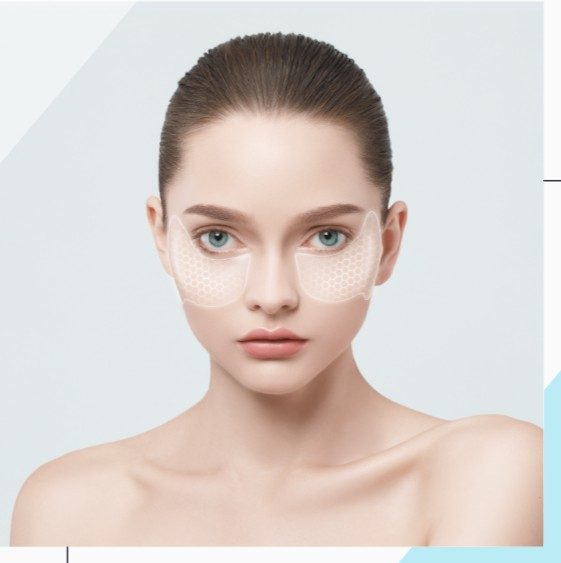
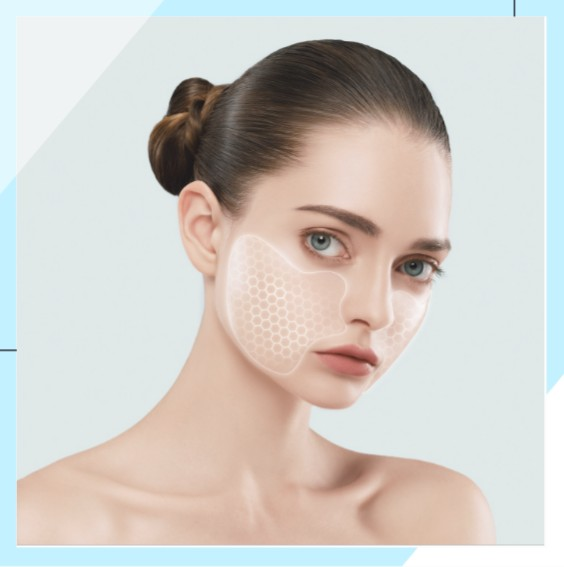
фавиконы, обложка и каталог

diff --git a/silea/index-2.html b/silea/index-2.html
@@ -4,9 +4,20 @@
     <meta charset="UTF-8">
     <meta name="viewport" content="width=device-width, initial-scale=1.0">
     <meta http-equiv="X-UA-Compatible" content="ie=edge">
-        
-    <link rel="shortcut icon" href="assets/images/favicon.ico" type="image/x-icon">
-    <link rel="icon" href="assets/images/favicon.ico" type="image/x-icon">
+
+    <meta property="og:title" content="Secret STRIPS" />
+    <meta property="og:description" content="удаления морщин без хирургического вмешательства и инъекций" />
+    <!-- <meta property="og:type" content="book" />
+    <meta property="og:url" content="http://www.labirint.ru/books/453612/" /> -->
+    <meta property="og:image" content="./assets/images/cover.jpg" />
+
+    <link rel="apple-touch-icon" sizes="180x180" href="./apple-touch-icon.png">
+    <link rel="icon" type="image/png" sizes="32x32" href="./favicon-32x32.png">
+    <link rel="icon" type="image/png" sizes="16x16" href="./favicon-16x16.png">
+    <link rel="manifest" href="./site.webmanifest">
+    <link rel="mask-icon" href="./safari-pinned-tab.svg" color="#5bbad5">
+    <meta name="msapplication-TileColor" content="#eeeeee">
+    <meta name="theme-color" content="#ffffff">
 
     <title>Secret STRIPS - удаления морщин без хирургического вмешательства и инъекций</title>
 
@@ -114,7 +125,7 @@
                         <div class="col-xl-7">
                             <div class="hero-sub">
                                 <div class="hero-left">
-                                    <h4>Эксклюзивный</h4>
+                                    <h4>Эксклюзив</h4>
                                     <h1>Для создания V-Образной формы лица</h1>
                                     <p>Работает одновременно на нижней части овала лица и носогубной складке.</p>
                                     <a href="index-2.html" class="bttn-mid btn-fill">Купить сейчас</a>
@@ -135,9 +146,9 @@
                         <div class="col-xl-7">
                             <div class="hero-sub">
                                 <div class="hero-left">
-                                    <h4>Exclusive one</h4>
-                                    <h1>One of the powerful watch ever</h1>
-                                    <p>Nunc enim neque, tincidunt non viverra ac, consectetur in erat. Quisque egestas pharetra dictum. Etiam sodales lacinia diam, nec iaculis neque pretium ac. Duis auctor ac</p>
+                                    <h4>Новинка</h4>
+                                    <h1>Форма для лобной части</h1>
+                                    <p>Разглаживает горизонтальные морщины лба и предотвращает их появление.</p>
                                     <a href="index-2.html" class="bttn-mid btn-fill">Купить сейчас</a>
                                 </div>
                             </div>
@@ -156,9 +167,9 @@
                         <div class="col-xl-7">
                             <div class="hero-sub">
                                 <div class="hero-left">
-                                    <h4>Exclusive one</h4>
-                                    <h1>One of the powerful watch ever</h1>
-                                    <p>Nunc enim neque, tincidunt non viverra ac, consectetur in erat. Quisque egestas pharetra dictum. Etiam sodales lacinia diam, nec iaculis neque pretium ac. Duis auctor ac</p>
+                                    <h4>Топ</h4>
+                                    <h1>Форма для глаз</h1>
+                                    <p>Избавляет от морщин вокруг глаз, уменьшает отеки и осветляет тёмные круги под глазами.</p>
                                     <a href="index-2.html" class="bttn-mid btn-fill">Купить сейчас</a>
                                 </div>
                             </div>
@@ -166,6 +177,27 @@
                         <div class="col-xl-5">
                             <div class="hero-right">
                                 <img src="assets/images/products/4.jpeg" alt="">
+                            </div>
+                        </div>
+                    </div>
+                </div>
+            </div>
+            <div class="single-hero">
+                <div class="container">
+                    <div class="row">
+                        <div class="col-xl-7">
+                            <div class="hero-sub">
+                                <div class="hero-left">
+                                    <h4>Топ</h4>
+                                    <h1>Форма для межбровных морщин</h1>
+                                    <p>Избавляет от горизонтальных и вертикальных морщин межбровья, предотвращает их появление.</p>
+                                    <a href="index-2.html" class="bttn-mid btn-fill">Купить сейчас</a>
+                                </div>
+                            </div>
+                        </div>
+                        <div class="col-xl-5">
+                            <div class="hero-right">
+                                <img src="assets/images/products/5.jpeg" alt="">
                             </div>
                         </div>
                     </div>
@@ -183,20 +215,20 @@
                 </div>
                 <div class="col-xl-6 col-lg-6 col-md-6">
                     <div class="section-title">
-                        <h4>Что вы получите при покупке?</h4>
-                        <h2>Anti oil Screen cream</h2>
+                        <!-- <h4>Что вы получите при покупке?</h4> -->
+                        <h2>Способ применения:</h2>
                     </div>
                     <div class="about-list">
                         <ul>
-                            <li><i class="flaticon-sun"></i>It is a long established fact</li>
-                            <li><i class="flaticon-cursor"></i>Many desktop publishing packages</li>
-                            <li><i class="flaticon-heart"></i>Contrary to popular belief, Lorem Ipsum is not simply</li>
-                            <li><i class="flaticon-lightning"></i>If you are going to use a passage</li>
-                            <li><i class="flaticon-photo-camera"></i>Latin words, consectetur, from a Lorem Ipsum</li>
-                            <li><i class="flaticon-shopping-cart"></i>Period others except engage simple</li>
-                            <li><i class="flaticon-cursor"></i>Many desktop publishing packages</li>
-                            <li><i class="flaticon-heart"></i>Contrary to popular belief, Lorem Ipsum is not simply</li>
-                            <li><i class="flaticon-lightning"></i>If you are going to use a passage</li>
+                            <li>Очистите кожу лица и подсушите.</li>
+                            <li>Нанесите гиалуроновую эссенцию на зону фиксации Secret Strips.</li>
+                            <li>Удалите белую защитную плёнку.</li>
+                            <li>Снимите Strips влажными пальцами с поверхности прозрачной пластинки и нанесите на предназначенную область со стороны белой защитной плёнки.</li>
+                            <li>Начните фиксацию с носогубной складки, затем слегка нажмите и зафиксируйте на коже. Аккуратно подтяните вниз и прикрепите к нижней челюсти под губами. Зафиксируйте оставшуюся часть Strips, разглаживающими движениями.
+                            <mark><br>Внимание, не фиксируйте Secret Strips слишком близко к уголку вашего рта, чтобы избежать дискомфорта при разговоре.</mark></li>
+                            <li>Разгладьте Secret Strips влажными пальцами, удалите пузырьки воздуха</li>
+                            <li>Для достижения наилучших результатов носите Secret Strips днём от 2 до 6 часов, ночью за 30 минут до сна и до самого утра не менее 8 часов.</li>
+                            <li>Для достижения лучших результатов используйте Secret Strips ежедневно в течении 30 дней, затем 2-3 раза в неделю, чтобы сохранить эффект.</li>
                         </ul>
                     </div>
                 </div>
@@ -465,54 +497,90 @@
                 <div class="col-xl-4 col-lg-4 col-md-4 col-sm-6 col-12">
                     <div class="single-product">
                         <div class="product-pro-img">
-                            <img src="assets/images/products/tranding-1.jpg" alt="">
+                            <img src="assets/images/products/1.jpeg" alt="">
                         </div>
                         <div class="product-pro-title">
-                            <h3><a href="index-2.html">Meyoji Robast Cream</a></h3>
+                            <h3><a href="index-2.html">Форма для носогубной складки</a></h3>
                         </div>
                         <div class="product-pro-price">
-                            <p>Consectetur adipisicing Lorem ipsum dolor sit, amet consectetur adipisicing elit</p>
+                            <p>Предотвращает появления морщин носогубной складки.</p>
                             <!-- <div class="price_box mb-20">
                                 <span class="current_price">$70.00</span>
                                 <span class="old_price">$80.00</span>
                             </div> -->
-                            <a href="index-2.html" class="bttn-small btn-fill">Get it now</a>
+                            <a href="index-2.html" class="bttn-small btn-fill">Купить</a>
                         </div>
                     </div>
                 </div>
                 <div class="col-xl-4 col-lg-4 col-md-4 col-sm-6 col-12">
                     <div class="single-product">
                         <div class="product-pro-img">
-                            <img src="assets/images/products/tranding-2.jpg" alt="">
+                            <img src="assets/images/products/2.jpeg" alt="">
                         </div>
                         <div class="product-pro-title">
-                            <h3><a href="index-2.html">Smooth cold cream</a></h3>
+                            <h3><a href="index-2.html">Для создания V-Образной формы лица</a></h3>
                         </div>
                         <div class="product-pro-price">
-                            <p>Consectetur adipisicing Lorem ipsum dolor sit, amet consectetur adipisicing elit</p>
+                            <p>Работает одновременно на нижней части овала лица и носогубной складке.</p>
                             <!-- <div class="price_box mb-20">
                                 <span class="current_price">$70.00</span>
                                 <span class="old_price">$80.00</span>
                             </div> -->
-                            <a href="index-2.html" class="bttn-small btn-fill">Get it now</a>
+                            <a href="index-2.html" class="bttn-small btn-fill">Купить</a>
                         </div>
                     </div>
                 </div>
                 <div class="col-xl-4 col-lg-4 col-md-4 col-sm-6 col-12">
                     <div class="single-product">
                         <div class="product-pro-img">
-                            <img src="assets/images/products/tranding-3.jpg" alt="">
+                            <img src="assets/images/products/3.jpeg" alt="">
                         </div>
                         <div class="product-pro-title">
-                            <h3><a href="index-2.html">Ance Removal Cream</a></h3>
+                            <h3><a href="index-2.html">Форма для лобной части лица</a></h3>
                         </div>
                         <div class="product-pro-price">
-                            <p>Consectetur adipisicing Lorem ipsum dolor sit, amet consectetur adipisicing elit</p>
+                            <p>Разглаживает горизонтальные морщины лба и предотвращает их появление.</p>
                             <!-- <div class="price_box mb-20">
                                 <span class="current_price">$70.00</span>
                                 <span class="old_price">$80.00</span>
                             </div> -->
-                            <a href="index-2.html" class="bttn-small btn-fill">Get it now</a>
+                            <a href="index-2.html" class="bttn-small btn-fill">Купить</a>
+                        </div>
+                    </div>
+                </div>
+                <div class="col-xl-4 col-lg-4 col-md-4 col-sm-6 col-12">
+                    <div class="single-product">
+                        <div class="product-pro-img">
+                            <img src="assets/images/products/4.jpeg" alt="">
+                        </div>
+                        <div class="product-pro-title">
+                            <h3><a href="index-2.html">Форма для глаз</a></h3>
+                        </div>
+                        <div class="product-pro-price">
+                            <p>Избавляет от морщин вокруг глаз, уменьшает отеки и тёмные круги под глазами.</p>
+                            <!-- <div class="price_box mb-20">
+                                <span class="current_price">$70.00</span>
+                                <span class="old_price">$80.00</span>
+                            </div> -->
+                            <a href="index-2.html" class="bttn-small btn-fill">Купить</a>
+                        </div>
+                    </div>
+                </div>
+                <div class="col-xl-4 col-lg-4 col-md-4 col-sm-6 col-12">
+                    <div class="single-product">
+                        <div class="product-pro-img">
+                            <img src="assets/images/products/5.jpeg" alt="">
+                        </div>
+                        <div class="product-pro-title">
+                            <h3><a href="index-2.html">Форма для межбровных морщин</a></h3>
+                        </div>
+                        <div class="product-pro-price">
+                            <p>Избавляет от горизонтальных и вертикальных морщин межбровья.</p>
+                            <!-- <div class="price_box mb-20">
+                                <span class="current_price">$70.00</span>
+                                <span class="old_price">$80.00</span>
+                            </div> -->
+                            <a href="index-2.html" class="bttn-small btn-fill">Купить</a>
                         </div>
                     </div>
                 </div>

diff --git a/silea/index-3.html b/silea/index-3.html
@@ -415,7 +415,7 @@
                                 <span class="current_price">$70.00</span>
                                 <span class="old_price">$80.00</span>
                             </div> -->
-                            <a href="index-3.html" class="bttn-small btn-fill">Get it now</a>
+                            <a href="index-3.html" class="bttn-small btn-fill">Купить</a>
                         </div>
                     </div>
                 </div>
@@ -433,7 +433,7 @@
                                 <span class="current_price">$70.00</span>
                                 <span class="old_price">$80.00</span>
                             </div> -->
-                            <a href="index-3.html" class="bttn-small btn-fill">Get it now</a>
+                            <a href="index-3.html" class="bttn-small btn-fill">Купить</a>
                         </div>
                     </div>
                 </div>
@@ -451,7 +451,7 @@
                                 <span class="current_price">$70.00</span>
                                 <span class="old_price">$80.00</span>
                             </div> -->
-                            <a href="index-3.html" class="bttn-small btn-fill">Get it now</a>
+                            <a href="index-3.html" class="bttn-small btn-fill">Купить</a>
                         </div>
                     </div>
                 </div>

diff --git a/silea/index.html b/silea/index.html
@@ -417,7 +417,7 @@
                                 <span class="current_price">$70.00</span>
                                 <span class="old_price">$80.00</span>
                             </div> -->
-                            <a href="index.html" class="bttn-small btn-fill">Get it now</a>
+                            <a href="index.html" class="bttn-small btn-fill">Купить</a>
                         </div>
                     </div>
                 </div>
@@ -435,7 +435,7 @@
                                 <span class="current_price">$70.00</span>
                                 <span class="old_price">$80.00</span>
                             </div> -->
-                            <a href="index.html" class="bttn-small btn-fill">Get it now</a>
+                            <a href="index.html" class="bttn-small btn-fill">Купить</a>
                         </div>
                     </div>
                 </div>
@@ -453,7 +453,7 @@
                                 <span class="current_price">$70.00</span>
                                 <span class="old_price">$80.00</span>
                             </div> -->
-                            <a href="index.html" class="bttn-small btn-fill">Get it now</a>
+                            <a href="index.html" class="bttn-small btn-fill">Купить</a>
                         </div>
                     </div>
                 </div>

diff --git a/silea/html_code.html b/silea/html_code.html
@@ -1,0 +1,7 @@
+<link rel="apple-touch-icon" sizes="180x180" href="/apple-touch-icon.png">
+<link rel="icon" type="image/png" sizes="32x32" href="/favicon-32x32.png">
+<link rel="icon" type="image/png" sizes="16x16" href="/favicon-16x16.png">
+<link rel="manifest" href="/site.webmanifest">
+<link rel="mask-icon" href="/safari-pinned-tab.svg" color="#5bbad5">
+<meta name="msapplication-TileColor" content="#eeeeee">
+<meta name="theme-color" content="#ffffff">
